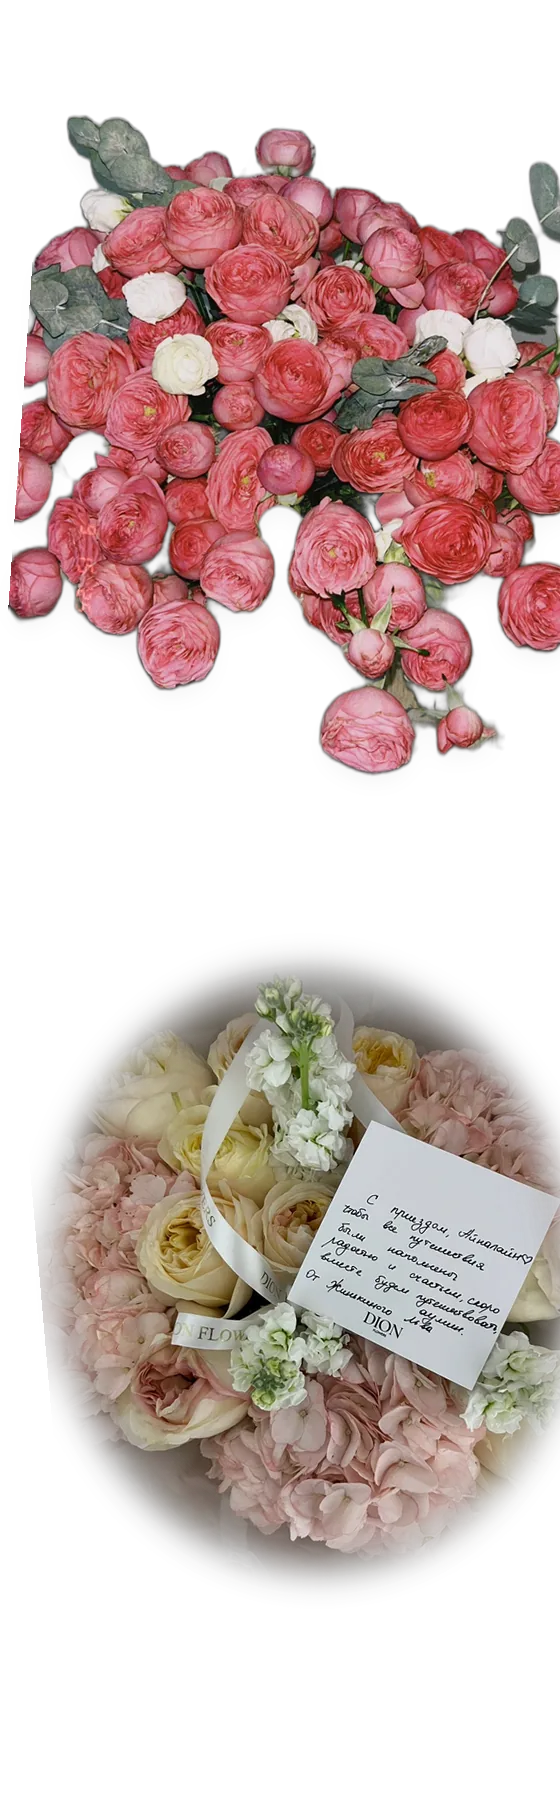
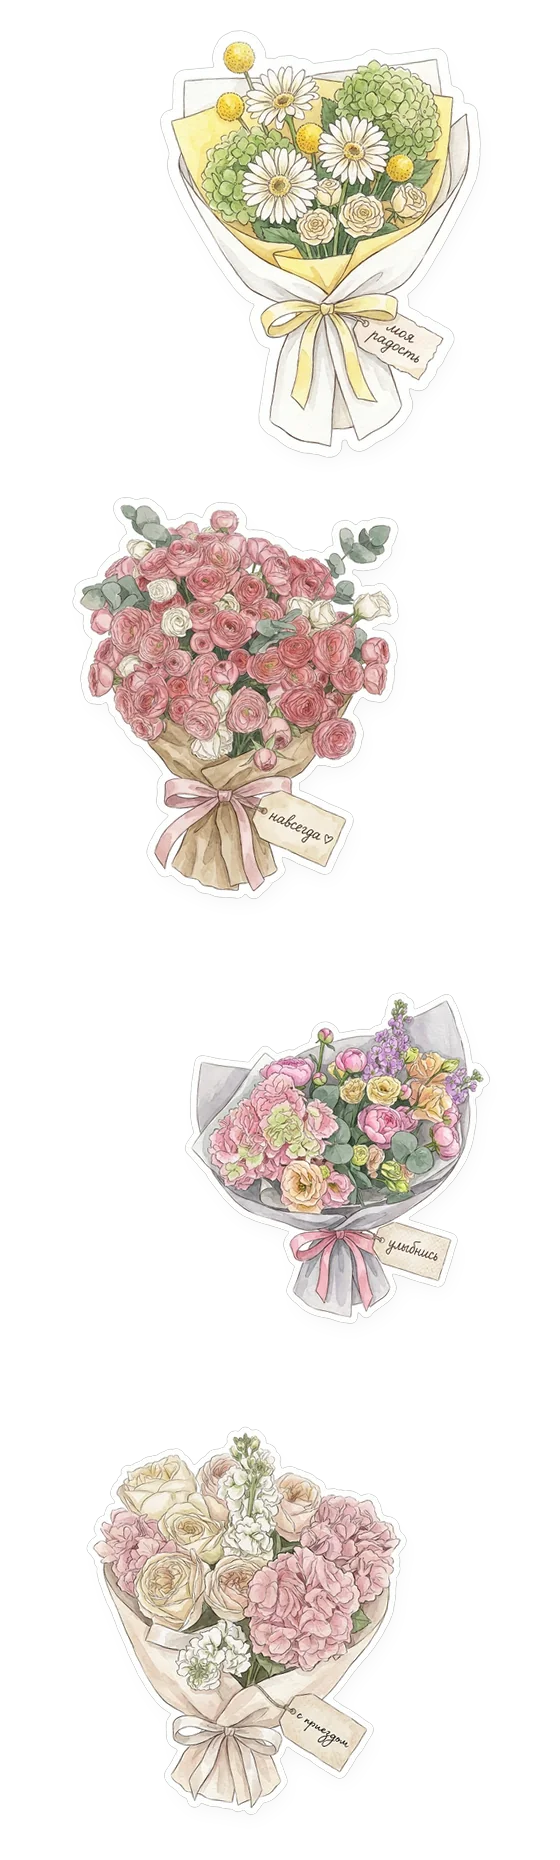
Стиль акварельных наклеек
Настоящие букеты перерисованы нейросетью в стиле винтажных акварельных наклеек
с бирками. По 4 наклейки с каждой стороны, наклейка «для тебя» на приветствии,
тёплая бумажная палитра.

Claude-Session: https://claude.ai/code/session_014bX3qYy35dvS7ewg6Hjr1n

diff --git a/css/style.css b/css/style.css
@@ -1,13 +1,13 @@
 /* ---------- Цвета и размеры (меняй здесь) ---------- */
 :root {
-  --bg: #fbf7f3;
+  --bg: #f6f0e7;
   --surface: #ffffff;
-  --ink: #4a3438;
-  --ink-soft: #8a7478;
-  --line: #efe4e0;
+  --ink: #4d3a32;
+  --ink-soft: #8c7a6e;
+  --line: #eadfd2;
   --rose: #e9b7bb;
-  --rose-deep: #c9787f;
-  --sage: #a9b894;
+  --rose-deep: #b8737a;
+  --sage: #9fae8c;
   --sage-soft: #eef2e8;
   --cream: #f6e3c8;
   --radius: 18px;
@@ -92,7 +92,8 @@ h2 { font-size: 36px; }
   text-align: center; gap: 20px;
 }
 .welcome__flower { width: 72px; animation: sway 6s ease-in-out infinite; }
-@keyframes sway { 50% { transform: rotate(8deg) scale(1.04); } }
+.welcome__sticker { width: 170px; transform: rotate(-4deg); filter: drop-shadow(0 8px 14px rgba(90, 70, 60, .16)); animation: sway 7s ease-in-out infinite; }
+@keyframes sway { 0%, 100% { transform: rotate(-4deg); } 50% { transform: rotate(2deg) scale(1.02); } }
 .welcome p { max-width: 440px; margin: 0; }
 .counter {
   margin-top: 8px; padding: 14px 26px; border-radius: 999px;

diff --git a/js/app.js b/js/app.js
@@ -86,7 +86,7 @@
 
     app.innerHTML = `
       <section class="welcome">
-        <img class="welcome__flower" src="${BLOOM}" alt="">
+        <img class="welcome__sticker" src="assets/flowers/hello.webp" alt="">
         <span class="eyebrow">только для нас двоих</span>
         <h1>${esc(C.greeting)}</h1>
         <p class="muted">${esc(C.subtitle)}</p>
